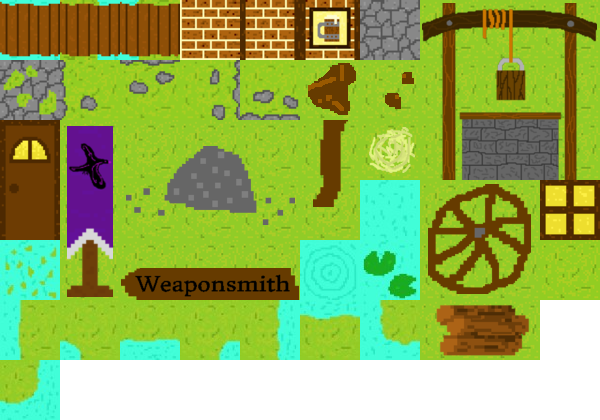
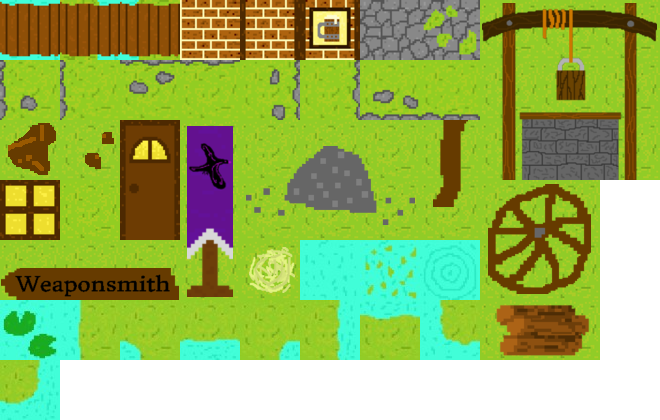
new area!

diff --git a/areadata.js b/areadata.js
@@ -60,12 +60,13 @@ var areas = {
 		],
 
 		mapData: {
+			// make a place to specify what the tilemap is, and make each of the 2 areas use a separate tilemap
 			cols: 40,
 			rows: 10,
 			tsize: 60,
-			tilesPerRow: 10, //tiles per tilemap row (important!)
+			tilesPerRow: 11, //tiles per tilemap row (important!)
 			layers: [
-				[50, 22, 50, 50, 22, 50, 50, 50, 50, 50, 55, 37, 51, 50, 22, 50, 50, 50, 50, 50, 50, 50, 23, 24, 25, 50, 50, 50, 50, 50, 50, 17, 50, 50, 50, 50, 50, 50, 50, 50, 50, 32, 50, 50, 32, 50, 50, 50, 58, 59, 55, 46, 51, 50, 32, 50, 50, 50, 50, 50, 50, 50, 33, 34, 35, 50, 27, 50, 50, 50, 50, 50, 50, 17, 16, 50, 50, 50, 50, 50, 27, 42, 50, 50, 42, 58, 59, 50, 58, 59, 55, 47, 51, 50, 42, 27, 50, 50, 50, 50, 50, 50, 50, 50, 50, 50, 50, 50, 50, 50, 50, 50, 50, 50, 50, 50, 50, 50, 27, 16, 50, 50, 50, 50, 50, 50, 50, 50, 50, 50, 2, 1, 3, 50, 50, 50, 50, 50, 50, 50, 50, 50, 50, 50, 50, 50, 50, 50, 50, 50, 50, 50, 50, 50, 23, 24, 25, 50, 50, 50, 50, 50, 50, 50, 50, 50, 50, 50, 50, 50, 55, 37, 51, 58, 59, 50, 50, 50, 50, 50, 50, 50, 50, 50, 50, 50, 43, 44, 45, 50, 17, 38, 39, 50, 33, 34, 35, 50, 50, 50, 59, 50, 50, 50, 50, 50, 58, 59, 27, 50, 55, 37, 57, 53, 52, 50, 50, 50, 50, 50, 27, 50, 50, 50, 50, 50, 50, 26, 50, 50, 50, 48, 49, 50, 50, 50, 50, 50, 50, 50, 58, 59, 50, 50, 50, 58, 59, 50, 54, 53, 61, 37, 46, 37, 57, 52, 50, 50, 50, 50, 50, 50, 50, 50, 23, 24, 25, 36, 27, 50, 50, 50, 50, 50, 50, 50, 38, 39, 16, 50, 53, 53, 53, 53, 53, 53, 53, 53, 61, 37, 37, 37, 37, 37, 37, 57, 53, 52, 50, 50, 50, 50, 50, 50, 33, 34, 35, 50, 50, 50, 50, 50, 50, 50, 50, 50, 48, 49, 17, 50, 37, 37, 37, 37, 37, 37, 46, 41, 37, 37, 37, 47, 46, 37, 41, 37, 37, 57, 53, 53, 52, 50, 50, 50, 50, 50, 50, 50, 50, 50, 50, 50, 17, 50, 50, 50, 50, 50, 50, 50, 37, 46, 41, 37, 37, 37, 37, 37, 37, 37, 47, 47, 37, 37, 37, 41, 46, 37, 37, 37, 57, 53, 53, 53, 53, 53, 52, 50, 50, 50, 50, 50, 50, 50, 50, 27, 50, 50, 50, 50],
+				[35, 26, 35, 35, 26, 35, 35, 35, 35, 35, 61, 50, 57, 35, 26, 35, 35, 35, 35, 35, 35, 35, 27, 28, 29, 35, 35, 35, 35, 35, 35, 24, 35, 35, 35, 35, 35, 35, 35, 35, 35, 37, 35, 35, 37, 35, 35, 35, 64, 65, 61, 52, 57, 35, 37, 35, 35, 35, 35, 35, 35, 35, 38, 39, 40, 35, 49, 35, 35, 35, 35, 35, 35, 24, 23, 35, 35, 35, 35, 35, 49, 48, 35, 35, 48, 64, 65, 35, 64, 65, 61, 56, 57, 35, 48, 49, 35, 35, 35, 35, 35, 35, 35, 35, 35, 35, 35, 35, 35, 35, 35, 35, 35, 35, 35, 35, 35, 35, 49, 23, 35, 35, 35, 35, 35, 35, 35, 35, 35, 35, 2, 1, 3, 35, 35, 35, 35, 35, 35, 35, 35, 35, 35, 35, 35, 35, 35, 35, 35, 35, 35, 35, 35, 35, 27, 28, 29, 35, 35, 35, 35, 35, 35, 35, 35, 35, 35, 35, 35, 35, 61, 50, 57, 64, 65, 35, 35, 35, 35, 35, 35, 35, 35, 35, 35, 35, 45, 46, 47, 35, 24, 42, 43, 35, 38, 39, 40, 35, 35, 35, 65, 35, 35, 35, 35, 35, 64, 65, 49, 35, 61, 50, 63, 59, 58, 35, 35, 35, 35, 35, 49, 35, 35, 35, 35, 35, 35, 30, 35, 35, 35, 53, 54, 35, 35, 35, 35, 35, 35, 35, 64, 65, 35, 35, 35, 64, 65, 35, 60, 59, 67, 50, 50, 50, 63, 58, 35, 35, 35, 35, 35, 35, 35, 35, 27, 28, 29, 41, 49, 35, 35, 35, 35, 35, 35, 35, 42, 43, 23, 35, 59, 59, 59, 59, 59, 59, 59, 59, 67, 50, 50, 50, 50, 50, 50, 63, 59, 58, 35, 35, 35, 35, 35, 35, 38, 39, 40, 35, 35, 35, 35, 35, 35, 35, 35, 35, 53, 54, 24, 35, 50, 50, 50, 50, 50, 50, 50, 51, 50, 50, 50, 56, 50, 50, 50, 50, 50, 63, 59, 59, 58, 35, 35, 35, 35, 35, 35, 35, 35, 35, 35, 35, 24, 35, 35, 35, 35, 35, 35, 35, 50, 50, 51, 50, 50, 50, 50, 50, 50, 50, 56, 56, 50, 50, 50, 50, 50, 50, 50, 50, 63, 59, 59, 59, 59, 59, 58, 35, 35, 35, 35, 35, 35, 35, 35, 49, 35, 35, 35, 35],
 				[],
 			],
 		},
@@ -75,18 +76,33 @@ var areas = {
 			y: 270,
 		}
 	},
-};
-
-/*
-initArea();
 	
-function initArea() {
-	for(var i = 0; i < questNPCs.length; i++) {
-		Game.questNPCs.push(new questNPC(questNPCs[i]));
-	}
-	for(var i = 0; i < merchants.length; i++) {
-		Game.merchants.push(new merchant(merchants[i]));
-	}
-	Object.assign(map, mapData);
-}
-*/
+	
+	eaglecrestLoggingCamp: {
+		questNPCs: [
+		],
+		
+		merchants: [
+		],
+		
+		areaTeleports: [
+		],
+		
+		mapData: {
+			// make a place to specify what the tilemap is, and make each of the 2 areas use a separate tilemap
+			cols: 20,
+			rows: 20,
+			tsize: 60,
+			tilesPerRow: 11, //tiles per tilemap row (important!)
+			layers: [
+				[35, 35, 35, 35, 5, 5, 5, 5, 5, 5, 5, 35, 35, 35, 61, 50, 57, 35, 35, 35, 35, 64, 65, 35, 5, 34, 5, 25, 6, 34, 5, 35, 35, 35, 61, 52, 57, 35, 35, 35, 64, 65, 35, 19, 5, 5, 5, 36, 5, 5, 5, 18, 35, 35, 61, 50, 57, 35, 49, 35, 35, 35, 17, 7, 7, 7, 8, 7, 7, 7, 7, 7, 13, 26, 61, 50, 57, 35, 64, 65, 35, 35, 16, 7, 7, 7, 7, 7, 7, 7, 8, 7, 13, 37, 61, 50, 57, 64, 65, 35, 35, 49, 17, 7, 7, 7, 7, 7, 7, 7, 7, 7, 12, 48, 61, 50, 57, 35, 35, 35, 64, 65, 17, 7, 7, 8, 7, 7, 7, 7, 7, 7, 13, 35, 61, 56, 57, 35, 35, 35, 35, 35, 17, 7, 7, 7, 7, 7, 7, 7, 7, 7, 13, 35, 2, 1, 3, 35, 35, 35, 35, 35, 17, 7, 7, 7, 7, 7, 7, 7, 7, 7, 13, 35, 61, 50, 57, 35, 35, 35, 35, 35, 16, 7, 7, 7, 7, 7, 7, 7, 7, 7, 13, 35, 61, 50, 57, 35, 35, 35, 35, 35, 16, 7, 7, 7, 7, 7, 7, 7, 8, 7, 12, 35, 61, 51, 57, 35, 35, 35, 35, 35, 17, 7, 7, 7, 7, 7, 7, 7, 7, 7, 13, 35, 61, 50, 57, 35, 35, 35, 35, 35, 35, 15, 15, 15, 14, 14, 14, 15, 15, 14, 35, 35, 61, 50, 57, 35, 35, 35, 35, 9, 10, 11, 35, 35, 35, 35, 35, 35, 26, 35, 35, 35, 61, 50, 57, 35, 35, 35, 35, 20, 21, 22, 35, 35, 35, 35, 35, 35, 37, 35, 35, 35, 61, 50, 57, 35, 35, 35, 49, 31, 32, 33, 35, 35, 35, 35, 35, 35, 48, 64, 65, 35, 61, 56, 57, 35, 35, 35, 35, 35, 35, 35, 35, 35, 35, 35, 35, 35, 35, 35, 35, 35, 61, 56, 57, 35, 64, 65, 35, 35, 35, 35, 35, 35, 35, 35, 35, 35, 35, 27, 28, 29, 61, 52, 57, 35, 64, 65, 35, 64, 65, 35, 35, 35, 35, 35, 35, 35, 49, 38, 39, 40, 61, 50, 57, 64, 65, 49, 64, 65, 35, 64, 65, 35, 35, 35, 35, 35, 35, 35, 35, 35, 61, 50, 57, 49, 35, 35],
+				[],
+			],
+		},
+		
+		player: {
+			x: 460,
+			y: 1200,
+		}
+	},
+};

diff --git a/assets/tilemap/tutorial.js b/assets/tilemap/tutorial.js
@@ -11,7 +11,7 @@
 { "height":10,
  "layers":[
         {
-         "data":[50, 22, 50, 50, 22, 50, 50, 50, 50, 50, 55, 37, 51, 50, 22, 50, 50, 50, 50, 50, 50, 50, 23, 24, 25, 50, 50, 50, 50, 50, 50, 17, 50, 50, 50, 50, 50, 50, 50, 50, 50, 32, 50, 50, 32, 50, 50, 50, 58, 59, 55, 46, 51, 50, 32, 50, 50, 50, 50, 50, 50, 50, 33, 34, 35, 50, 27, 50, 50, 50, 50, 50, 50, 17, 16, 50, 50, 50, 50, 50, 27, 42, 50, 50, 42, 58, 59, 50, 58, 59, 55, 47, 51, 50, 42, 27, 50, 50, 50, 50, 50, 50, 50, 50, 50, 50, 50, 50, 50, 50, 50, 50, 50, 50, 50, 50, 50, 50, 27, 16, 50, 50, 50, 50, 50, 50, 50, 50, 50, 50, 2, 1, 3, 50, 50, 50, 50, 50, 50, 50, 50, 50, 50, 50, 50, 50, 50, 50, 50, 50, 50, 50, 50, 50, 23, 24, 25, 50, 50, 50, 50, 50, 50, 50, 50, 50, 50, 50, 50, 50, 55, 37, 51, 58, 59, 50, 50, 50, 50, 50, 50, 50, 50, 50, 50, 50, 43, 44, 45, 50, 17, 38, 39, 50, 33, 34, 35, 50, 50, 50, 59, 50, 50, 50, 50, 50, 58, 59, 27, 50, 55, 37, 57, 53, 52, 50, 50, 50, 50, 50, 27, 50, 50, 50, 50, 50, 50, 26, 50, 50, 50, 48, 49, 50, 50, 50, 50, 50, 50, 50, 58, 59, 50, 50, 50, 58, 59, 50, 54, 53, 61, 37, 46, 37, 57, 52, 50, 50, 50, 50, 50, 50, 50, 50, 23, 24, 25, 36, 27, 50, 50, 50, 50, 50, 50, 50, 38, 39, 16, 50, 53, 53, 53, 53, 53, 53, 53, 53, 61, 37, 37, 37, 37, 37, 37, 57, 53, 52, 50, 50, 50, 50, 50, 50, 33, 34, 35, 50, 50, 50, 50, 50, 50, 50, 50, 50, 48, 49, 17, 50, 37, 37, 37, 37, 37, 37, 46, 41, 37, 37, 37, 47, 46, 37, 41, 37, 37, 57, 53, 53, 52, 50, 50, 50, 50, 50, 50, 50, 50, 50, 50, 50, 17, 50, 50, 50, 50, 50, 50, 50, 37, 46, 41, 37, 37, 37, 37, 37, 37, 37, 47, 47, 37, 37, 37, 41, 46, 37, 37, 37, 57, 53, 53, 53, 53, 53, 52, 50, 50, 50, 50, 50, 50, 50, 50, 27, 50, 50, 50, 50],
+         "data":[35, 26, 35, 35, 26, 35, 35, 35, 35, 35, 61, 50, 57, 35, 26, 35, 35, 35, 35, 35, 35, 35, 27, 28, 29, 35, 35, 35, 35, 35, 35, 24, 35, 35, 35, 35, 35, 35, 35, 35, 35, 37, 35, 35, 37, 35, 35, 35, 64, 65, 61, 52, 57, 35, 37, 35, 35, 35, 35, 35, 35, 35, 38, 39, 40, 35, 49, 35, 35, 35, 35, 35, 35, 24, 23, 35, 35, 35, 35, 35, 49, 48, 35, 35, 48, 64, 65, 35, 64, 65, 61, 56, 57, 35, 48, 49, 35, 35, 35, 35, 35, 35, 35, 35, 35, 35, 35, 35, 35, 35, 35, 35, 35, 35, 35, 35, 35, 35, 49, 23, 35, 35, 35, 35, 35, 35, 35, 35, 35, 35, 2, 1, 3, 35, 35, 35, 35, 35, 35, 35, 35, 35, 35, 35, 35, 35, 35, 35, 35, 35, 35, 35, 35, 35, 27, 28, 29, 35, 35, 35, 35, 35, 35, 35, 35, 35, 35, 35, 35, 35, 61, 50, 57, 64, 65, 35, 35, 35, 35, 35, 35, 35, 35, 35, 35, 35, 45, 46, 47, 35, 24, 42, 43, 35, 38, 39, 40, 35, 35, 35, 65, 35, 35, 35, 35, 35, 64, 65, 49, 35, 61, 50, 63, 59, 58, 35, 35, 35, 35, 35, 49, 35, 35, 35, 35, 35, 35, 30, 35, 35, 35, 53, 54, 35, 35, 35, 35, 35, 35, 35, 64, 65, 35, 35, 35, 64, 65, 35, 60, 59, 67, 50, 50, 50, 63, 58, 35, 35, 35, 35, 35, 35, 35, 35, 27, 28, 29, 41, 49, 35, 35, 35, 35, 35, 35, 35, 42, 43, 23, 35, 59, 59, 59, 59, 59, 59, 59, 59, 67, 50, 50, 50, 50, 50, 50, 63, 59, 58, 35, 35, 35, 35, 35, 35, 38, 39, 40, 35, 35, 35, 35, 35, 35, 35, 35, 35, 53, 54, 24, 35, 50, 50, 50, 50, 50, 50, 50, 51, 50, 50, 50, 56, 50, 50, 50, 50, 50, 63, 59, 59, 58, 35, 35, 35, 35, 35, 35, 35, 35, 35, 35, 35, 24, 35, 35, 35, 35, 35, 35, 35, 50, 50, 51, 50, 50, 50, 50, 50, 50, 50, 56, 56, 50, 50, 50, 50, 50, 50, 50, 50, 63, 59, 59, 59, 59, 59, 58, 35, 35, 35, 35, 35, 35, 35, 35, 49, 35, 35, 35, 35],
          "height":10,
          "name":"Tile Layer 1",
          "opacity":1,
@@ -28,15 +28,15 @@
  "tileheight":60,
  "tilesets":[
         {
-         "columns":10,
+         "columns":11,
          "firstgid":1,
          "image":"tilemap.png",
          "imageheight":420,
-         "imagewidth":600,
+         "imagewidth":660,
          "margin":0,
          "name":"tutorial",
          "spacing":0,
-         "tilecount":70,
+         "tilecount":77,
          "tileheight":60,
          "tilewidth":60
         }],

diff --git a/main.js b/main.js
@@ -172,7 +172,7 @@ var map = {
         // check first layer only and return TRUE if any tile is water 
 		// TBD : move this to areadata.js at some point pls
         var tile = this.getTile(0, col, row);
-        var isWater = tile === 37 || tile === 41 || tile === 46 ||tile === 61 || tile === 57 || tile === 53;
+        var isWater = tile === 50 || tile === 51 || tile === 52 ||tile === 59 || tile === 63 || tile === 67;
 		return isWater;
 	},
 };
@@ -380,6 +380,12 @@ Game.loadArea = function (areaName) {
 	// map
 	Object.assign(map, areas[areaName].mapData);
 	
+	// camera
+	if(this.camera != undefined) {
+		this.camera.maxX = map.cols * map.tsize - canvas.width;
+		this.camera.maxY = map.rows * map.tsize - canvas.height;
+	}
+	
 	// quest npcs
 	this.questNPCs = [];
 	for(var i = 0; i < areas[areaName].questNPCs.length; i++) {
@@ -431,6 +437,8 @@ Game.init = function () {
 		baseSpeed: 172, // base pixels per second
 		waterSpeed: 64, // speed when in water
 	});
+	
+	this.camera = undefined;
 	
 	this.loadArea("tutorial");
 	
@@ -532,6 +540,7 @@ Game.update = function (delta) {
     this.camera.update();
 	
 	// check collision with quest npcs
+	// tbd: make own function, and move to be called by hero.move (inefficient rn)
 	for(var i = 0; i < this.questNPCs.length; i++) {
 		// doesn't currently check if the player's level is too low to accept the quest
 		
@@ -553,15 +562,20 @@ Game.update = function (delta) {
 	for(var i = 0; i < this.merchants.length; i++) {
         if (this.hero.isTouching(this.merchants[i]) && Dom.currentlyDisplayed === "") {
 			Dom.merchant.page(this.merchants[i].name, this.merchants[i].greetingText, this.merchants[i].items);
-			//console.log("oui");
 			//Dom.chat.insert("<strong>" + this.merchants[i].name + ": " + "</strong>" + this.merchants[i].greetingText, 100); (done in dom)
 		}
     }
 	
 	// check collision with area teleports
 	for(var i = 0; i < this.areaTeleports.length; i++) {
+		// give area teleports a screenX and Y (should be turned into own function)
+		this.areaTeleports[i].screenX = (this.areaTeleports[i].x - this.areaTeleports[i].width / 2) - this.camera.x;
+		this.areaTeleports[i].screenY = (this.areaTeleports[i].y - this.areaTeleports[i].height / 2) - this.camera.y;
+		
         if (this.hero.isTouching(this.areaTeleports[i])) {
 			// teleport to new area
+			this.loadArea("eaglecrestLoggingCamp");
+			
 			//console.log("oui");
 		}
     }
@@ -638,8 +652,6 @@ Game.drawHitboxes = function () {
 	
 	// area teleport hitboxes
 	for(var i = 0; i < this.areaTeleports.length; i++) {
-		this.areaTeleports[i].screenX = (this.areaTeleports[i].x - this.areaTeleports[i].width / 2) - this.camera.x;
-		this.areaTeleports[i].screenY = (this.areaTeleports[i].y - this.areaTeleports[i].height / 2) - this.camera.y;
 		this.ctx.strokeRect(this.areaTeleports[i].screenX - this.areaTeleports[i].width / 2, this.areaTeleports[i].screenY - this.areaTeleports[i].height / 2, this.areaTeleports[i].width, this.areaTeleports[i].height);
 	}
 }
@@ -742,7 +754,7 @@ Game.render = function () {
     //this._drawGrid();
 	
 	// draw hitboxes (debug)
-	this.drawHitboxes();
+	//this.drawHitboxes();
 	
 	// give player coords (debug)
 	//this.coordinates(this.hero);

diff --git a/assets/tilemap/loggingCamp.js b/assets/tilemap/loggingCamp.js
@@ -1,0 +1,47 @@
+(function(name,data){
+ if(typeof onTileMapLoaded === 'undefined') {
+  if(typeof TileMaps === 'undefined') TileMaps = {};
+  TileMaps[name] = data;
+ } else {
+  onTileMapLoaded(name,data);
+ }
+ if(typeof module === 'object' && module && module.exports) {
+  module.exports = data;
+ }})("loggingCamp",
+{ "height":20,
+ "layers":[
+        {
+         "data":[35, 35, 35, 35, 5, 5, 5, 5, 5, 5, 5, 35, 35, 35, 61, 50, 57, 35, 35, 35, 35, 64, 65, 35, 5, 34, 5, 25, 6, 34, 5, 35, 35, 35, 61, 52, 57, 35, 35, 35, 64, 65, 35, 19, 5, 5, 5, 36, 5, 5, 5, 18, 35, 35, 61, 50, 57, 35, 49, 35, 35, 35, 17, 7, 7, 7, 8, 7, 7, 7, 7, 7, 13, 26, 61, 50, 57, 35, 64, 65, 35, 35, 16, 7, 7, 7, 7, 7, 7, 7, 8, 7, 13, 37, 61, 50, 57, 64, 65, 35, 35, 49, 17, 7, 7, 7, 7, 7, 7, 7, 7, 7, 12, 48, 61, 50, 57, 35, 35, 35, 64, 65, 17, 7, 7, 8, 7, 7, 7, 7, 7, 7, 13, 35, 61, 56, 57, 35, 35, 35, 35, 35, 17, 7, 7, 7, 7, 7, 7, 7, 7, 7, 13, 35, 2, 1, 3, 35, 35, 35, 35, 35, 17, 7, 7, 7, 7, 7, 7, 7, 7, 7, 13, 35, 61, 50, 57, 35, 35, 35, 35, 35, 16, 7, 7, 7, 7, 7, 7, 7, 7, 7, 13, 35, 61, 50, 57, 35, 35, 35, 35, 35, 16, 7, 7, 7, 7, 7, 7, 7, 8, 7, 12, 35, 61, 51, 57, 35, 35, 35, 35, 35, 17, 7, 7, 7, 7, 7, 7, 7, 7, 7, 13, 35, 61, 50, 57, 35, 35, 35, 35, 35, 35, 15, 15, 15, 14, 14, 14, 15, 15, 14, 35, 35, 61, 50, 57, 35, 35, 35, 35, 9, 10, 11, 35, 35, 35, 35, 35, 35, 26, 35, 35, 35, 61, 50, 57, 35, 35, 35, 35, 20, 21, 22, 35, 35, 35, 35, 35, 35, 37, 35, 35, 35, 61, 50, 57, 35, 35, 35, 49, 31, 32, 33, 35, 35, 35, 35, 35, 35, 48, 64, 65, 35, 61, 56, 57, 35, 35, 35, 35, 35, 35, 35, 35, 35, 35, 35, 35, 35, 35, 35, 35, 35, 61, 56, 57, 35, 64, 65, 35, 35, 35, 35, 35, 35, 35, 35, 35, 35, 35, 27, 28, 29, 61, 52, 57, 35, 64, 65, 35, 64, 65, 35, 35, 35, 35, 35, 35, 35, 49, 38, 39, 40, 61, 50, 57, 64, 65, 49, 64, 65, 35, 64, 65, 35, 35, 35, 35, 35, 35, 35, 35, 35, 61, 50, 57, 49, 35, 35],
+         "height":20,
+         "name":"Tile Layer 1",
+         "opacity":1,
+         "type":"tilelayer",
+         "visible":true,
+         "width":20,
+         "x":0,
+         "y":0
+        }],
+ "nextobjectid":1,
+ "orientation":"orthogonal",
+ "renderorder":"right-down",
+ "tiledversion":"1.0.3",
+ "tileheight":60,
+ "tilesets":[
+        {
+         "columns":11,
+         "firstgid":1,
+         "image":"tilemap.png",
+         "imageheight":420,
+         "imagewidth":660,
+         "margin":0,
+         "name":"loggingCamp",
+         "spacing":0,
+         "tilecount":77,
+         "tileheight":60,
+         "tilewidth":60
+        }],
+ "tilewidth":60,
+ "type":"map",
+ "version":1,
+ "width":20
+});
